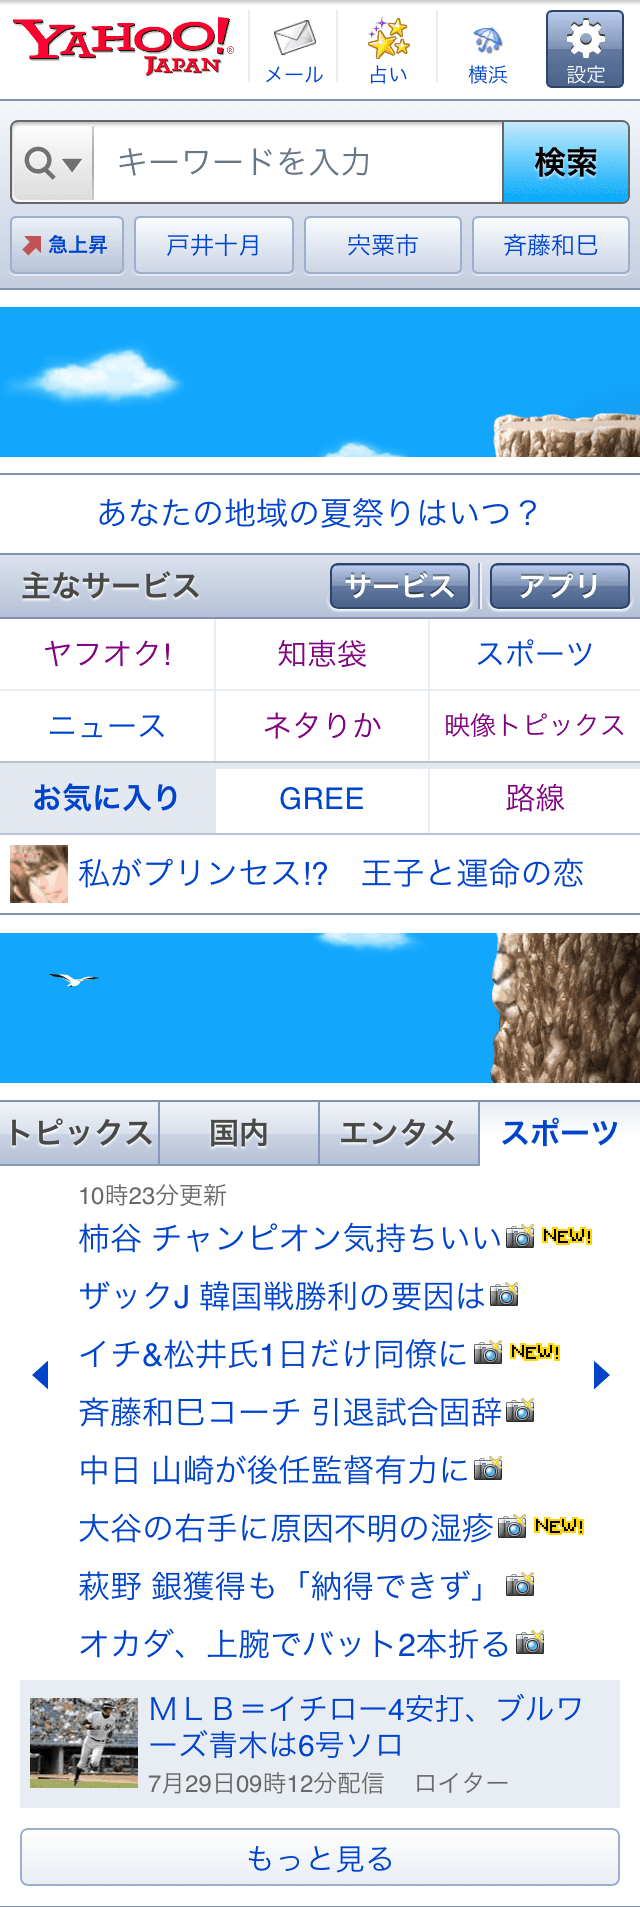
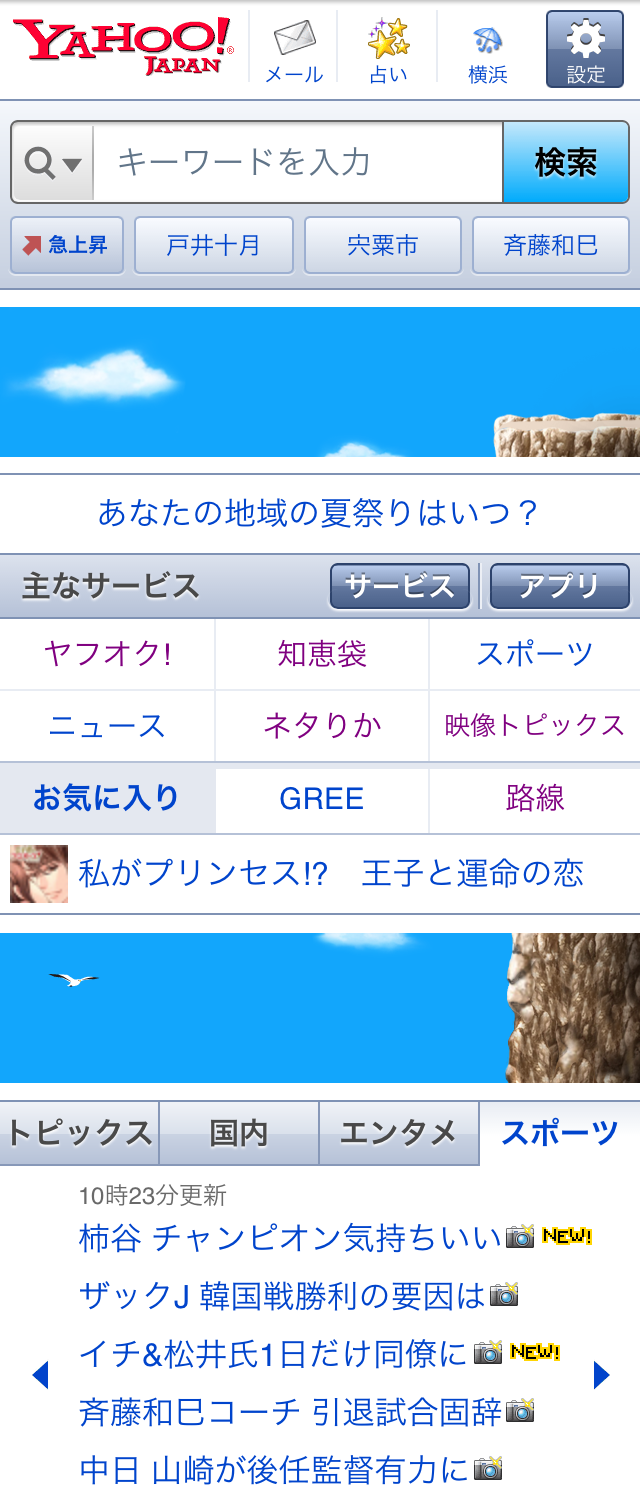
画像変更、水しぶき修正など

diff --git a/js/app.js b/js/app.js
@@ -10,6 +10,9 @@ uaIs = (function(){
   }
 })();
 
+
+var hideTopbar = function(){ setTimeout(scrollBy, 100, 0, 1); }
+
 var ScrollManager = function(){
   this.initialize();
 }
@@ -18,17 +21,12 @@ ScrollManager.prototype = {
   prev: 0,
 
   initialize: function(){
-    this.$win = $(window);
     
-    if(uaIs("iphone|andorid")) this.hideTopbar();
-    this.scrollInit();
-    this.hideTopbar();
-  },
+    if(uaIs("iphone|android")) hideTopbar();
+    else $('body').addClass("pc");
 
-  hideTopbar: function(){
-    window.addEventListener("load", function(){
-      setTimeout(scrollBy, 100, 0, 1);
-    }, false);
+    this.scrollInit();
+
   },
 
   scrollInit: function(){
@@ -64,7 +62,7 @@ ScrollManager.prototype = {
   },
 
   onScrollMove: function(y){
-    this.$win.trigger("scrollmove", {y: y, v: y-this.prev});
+    $window.trigger("scrollmove", {y: y, v: y-this.prev});
     this.scrollY = y;
     this.prev = y;
   },
@@ -116,7 +114,7 @@ CanvasManager.prototype = {
         this.stage.cname = "c"+i;
         this.stage.el = this;
       }
-      console.log(this.stage.cname, this.topY);
+      //console.log(this.stage.cname, this.topY);
       dict[this.stage.cname] = this.stage;
       return this.stage;
     });
@@ -394,13 +392,15 @@ Puppet.prototype = {
 ----------------------------------------ソン ↓
 */
 
-
-    if (this.sprite.y > 30) {
+    if (this.sprite.y > 25) {
+      var frame = (step-56) /6 | 0;
+      console.log(frame);
       this.sprite.gotoAndStop(10 + ( step /20 | 0 )%2);
+
       if(this.sprite.y > 158){
         this.water.x = this.sprite.x; 
         this.water.y = 245;
-        this.water.gotoAndStop(( step /8 | 0 )%6);
+        this.water.gotoAndStop(frame);
       }
     } else{
       this.water.gotoAndStop(-1);
@@ -471,7 +471,7 @@ Puppet.prototype = {
       this.drawSambaFunc(29);
     }
 
-    var opacity = ( step / 100);
+    var opacity = ( step / 80);
     if(app.kakao.css("opacity") <= 1) app.kakao.css({ 'opacity' : opacity <=1 ? opacity:1 });
 
   },
@@ -585,9 +585,8 @@ App.prototype = {
 var img = new Image();
 img.src="img/hole.png";
 
-$(function(){
+window.addEventListener("load", function(){
   app = new App();
-});
-
+}, false);
 
 })(window, document, jQuery);
